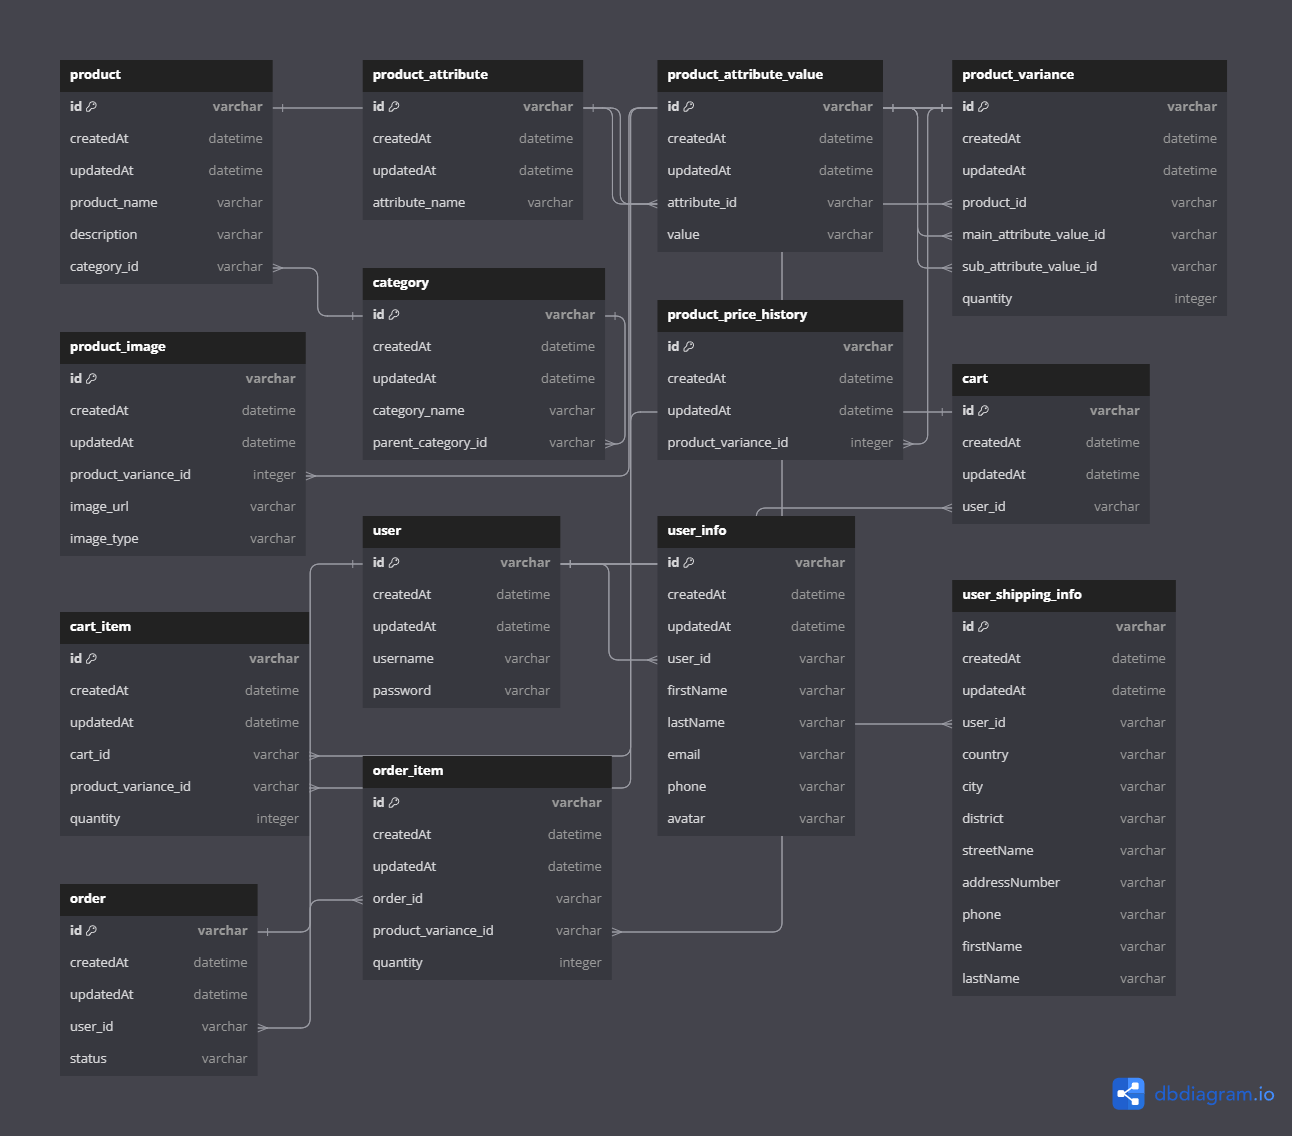
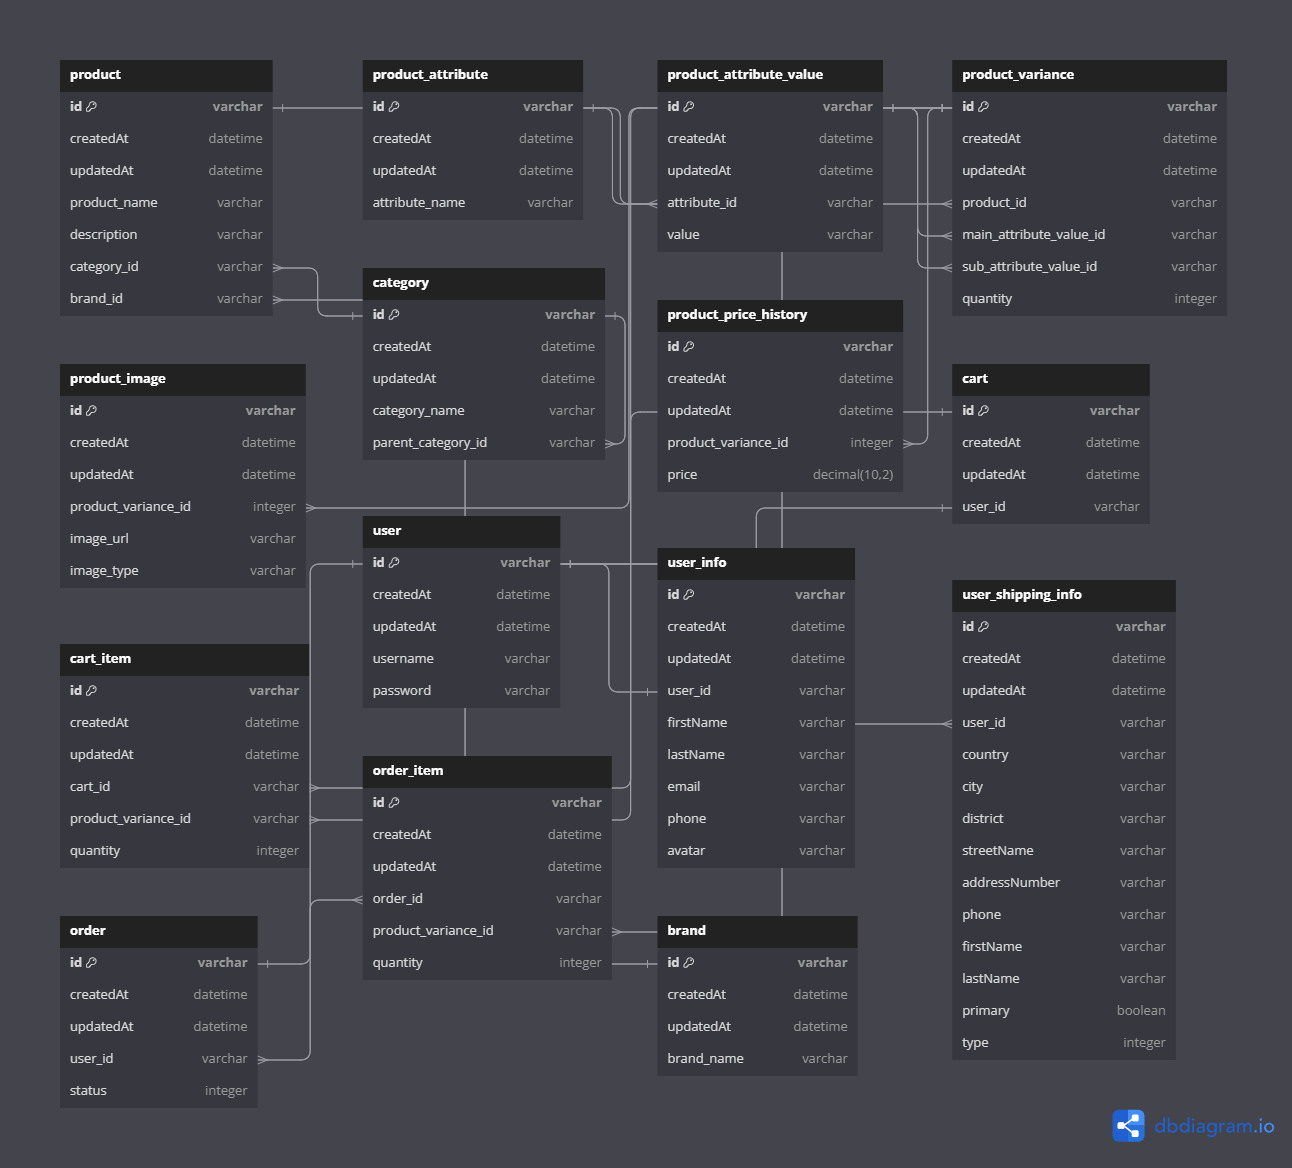
feat: design db

diff --git a/src/entities/product-variance.entity.ts b/src/entities/product-variance.entity.ts
@@ -1,7 +1,11 @@
-import { Column, Entity, JoinColumn, ManyToOne } from 'typeorm'
+import { Column, Entity, JoinColumn, ManyToOne, OneToMany } from 'typeorm'
 import CustomBase from './base'
 import ProductAttributeValue from './product-attribute-value.entity'
 import Product from './product.entity'
+import ProductImage from './product-image.entity'
+import ProductPriceHistory from './product-price-history.entity'
+import CartItem from './cart-item.entity'
+import OrderItem from './order-item.entity'
 
 @Entity()
 class ProductVariance extends CustomBase {
@@ -10,6 +14,9 @@ class ProductVariance extends CustomBase {
 
   @Column({ unique: true, type: 'varchar', nullable: false })
   attribute_name: string
+
+  @Column({ type: 'int2', nullable: false, default: 0 })
+  quantity: number
 
   @ManyToOne(() => Product, (product) => product.productVariances)
   @JoinColumn({ name: 'product_id' })
@@ -23,8 +30,17 @@ class ProductVariance extends CustomBase {
   @JoinColumn({ name: 'sub_attribute_value_id' })
   productAttributeValue2: ProductAttributeValue
 
-  @Column({ type: 'int2', default: 0 })
-  quantity: number
+  @OneToMany(() => ProductImage, (productImage) => productImage.productVariance)
+  productImages: ProductImage[]
+
+  @OneToMany(() => ProductPriceHistory, (productPriceHistory) => productPriceHistory.productVariance)
+  productPriceHistories: ProductImage[]
+
+  @OneToMany(() => CartItem, (cartItem) => cartItem.productVariance)
+  cartItems: CartItem[]
+
+  @OneToMany(() => OrderItem, (orderItem) => orderItem.productVariance)
+  orderItems: OrderItem[]
 }
 
 export default ProductVariance

diff --git a/src/app.module.ts b/src/app.module.ts
@@ -11,6 +11,15 @@ import ProductAttribute from './entities/product-attribute.entity'
 import ProductAttributeValue from './entities/product-attribute-value.entity'
 import Category from './entities/category.entity'
 import ProductVariance from './entities/product-variance.entity'
+import ProductImage from './entities/product-image.entity'
+import ProductPriceHistory from './entities/product-price-history.entity'
+import Cart from './entities/cart.entity'
+import CartItem from './entities/cart-item.entity'
+import UserShippingInfo from './entities/user-shipping-info.entity'
+import UserInfo from './entities/user-info.entity'
+import Order from './entities/order.entity'
+import OrderItem from './entities/order-item.entity'
+import Brand from './entities/brand.entity'
 @Module({
   imports: [
     ConfigModule.forRoot(),
@@ -21,7 +30,23 @@ import ProductVariance from './entities/product-variance.entity'
       username: process.env.DATABASE_USERNAME,
       password: process.env.DATABASE_PASSWORD,
       database: 'ecommerce',
-      entities: [User, Product, ProductAttribute, ProductAttributeValue, Category, ProductVariance],
+      entities: [
+        User,
+        UserInfo,
+        UserShippingInfo,
+        Order,
+        OrderItem,
+        Product,
+        ProductAttribute,
+        ProductAttributeValue,
+        Brand,
+        Category,
+        ProductVariance,
+        ProductImage,
+        ProductPriceHistory,
+        Cart,
+        CartItem,
+      ],
       synchronize: true,
     }),
     UserModule,

diff --git a/src/entities/user-shipping-info.entity.ts b/src/entities/user-shipping-info.entity.ts
@@ -1,0 +1,42 @@
+import { Column, Entity, JoinColumn, ManyToOne } from 'typeorm'
+import CustomBase from './base'
+import User from './user.entity'
+
+@Entity()
+class UserShippingInfo extends CustomBase {
+  @Column({ type: 'varchar', nullable: false })
+  country: string
+
+  @Column({ type: 'varchar', nullable: false })
+  city: string
+
+  @Column({ type: 'varchar', nullable: false })
+  district: string
+
+  @Column({ type: 'varchar', nullable: false })
+  streetName: string
+
+  @Column({ type: 'varchar', nullable: false })
+  addressNumber: string
+
+  @Column({ type: 'varchar', nullable: false })
+  phone: string
+
+  @Column({ type: 'varchar', nullable: false })
+  firstName: string
+
+  @Column({ type: 'varchar', nullable: false })
+  lastName: string
+
+  @Column({ type: 'boolean', nullable: false })
+  primary: string
+
+  @Column({ type: 'int2', nullable: false, default: 0 })
+  type: number
+
+  @ManyToOne(() => User, (user) => user.userShippingInfos)
+  @JoinColumn({ name: 'user_id' })
+  user: User
+}
+
+export default UserShippingInfo

diff --git a/src/entities/order-item.entity.ts b/src/entities/order-item.entity.ts
@@ -1,0 +1,20 @@
+import { Column, Entity, JoinColumn, ManyToOne } from 'typeorm'
+import CustomBase from './base'
+import Order from './order.entity'
+import ProductVariance from './product-variance.entity'
+
+@Entity()
+class OrderItem extends CustomBase {
+  @Column({ type: 'int2', nullable: false, default: 0 })
+  quantity: number
+
+  @ManyToOne(() => ProductVariance, (productVariance) => productVariance.orderItems)
+  @JoinColumn({ name: 'product_variance_id' })
+  productVariance: ProductVariance
+
+  @ManyToOne(() => Order, (order) => order.items)
+  @JoinColumn({ name: 'order_id' })
+  order: Order
+}
+
+export default OrderItem

diff --git a/src/entities/user.entity.ts b/src/entities/user.entity.ts
@@ -1,5 +1,7 @@
-import { Column, Entity } from 'typeorm'
+import { Column, Entity, OneToMany } from 'typeorm'
 import CustomBase from './base'
+import UserShippingInfo from './user-shipping-info.entity'
+import Order from './order.entity'
 
 @Entity()
 class User extends CustomBase {
@@ -8,6 +10,12 @@ class User extends CustomBase {
 
   @Column({ type: 'varchar', nullable: false })
   password: string
+
+  @OneToMany(() => UserShippingInfo, (userShippingInfo) => userShippingInfo.user)
+  userShippingInfos: UserShippingInfo[]
+
+  @OneToMany(() => Order, (order) => order.user)
+  orders: Order[]
 }
 
 export default User

diff --git a/src/entities/cart-item.entity.ts b/src/entities/cart-item.entity.ts
@@ -1,0 +1,20 @@
+import { Column, Entity, JoinColumn, ManyToOne } from 'typeorm'
+import CustomBase from './base'
+import Cart from './cart.entity'
+import ProductVariance from './product-variance.entity'
+
+@Entity()
+class CartItem extends CustomBase {
+  @ManyToOne(() => Cart, (cart) => cart.items)
+  @JoinColumn({ name: 'cart_id' })
+  cart: Cart
+
+  @ManyToOne(() => ProductVariance, (productVariance) => productVariance.cartItems)
+  @JoinColumn({ name: 'product_variance_id' })
+  productVariance: ProductVariance
+
+  @Column({ type: 'int2', default: 0 })
+  quantity: number
+}
+
+export default CartItem

diff --git a/src/entities/product.entity.ts b/src/entities/product.entity.ts
@@ -2,6 +2,7 @@ import { Column, Entity, JoinColumn, ManyToOne, OneToMany } from 'typeorm'
 import CustomBase from './base'
 import Category from './category.entity'
 import ProductVariance from './product-variance.entity'
+import Brand from './brand.entity'
 
 @Entity()
 class Product extends CustomBase {
@@ -17,6 +18,10 @@ class Product extends CustomBase {
 
   @OneToMany(() => ProductVariance, (productVariance) => productVariance)
   productVariances: ProductVariance[]
+
+  @ManyToOne(() => Brand, (brand) => brand.products)
+  @JoinColumn({ name: 'brand_id' })
+  brand: Brand
 }
 
 export default Product

diff --git a/src/entities/product-image.entity.ts b/src/entities/product-image.entity.ts
@@ -1,0 +1,18 @@
+import { Column, Entity, JoinColumn, ManyToOne } from 'typeorm'
+import CustomBase from './base'
+import ProductVariance from './product-variance.entity'
+
+@Entity()
+class ProductImage extends CustomBase {
+  @Column({ type: 'varchar', nullable: false })
+  image_url: string
+
+  @Column({ type: 'varchar', nullable: false })
+  image_type: string
+
+  @ManyToOne(() => ProductVariance, (productVariance) => productVariance.productImages)
+  @JoinColumn({ name: 'product_variance_id' })
+  productVariance: ProductVariance
+}
+
+export default ProductImage

diff --git a/src/entities/user-info.entity.ts b/src/entities/user-info.entity.ts
@@ -1,0 +1,24 @@
+import { Column, Entity, JoinColumn, ManyToOne, OneToOne } from 'typeorm'
+import CustomBase from './base'
+import User from './user.entity'
+
+@Entity()
+class UserInfo extends CustomBase {
+  @Column({ type: 'varchar' })
+  first_name: string
+
+  @Column({ type: 'varchar' })
+  last_name: string
+
+  @Column({ type: 'varchar', nullable: true })
+  email: string
+
+  @Column({ type: 'varchar', nullable: true })
+  phone: string
+
+  @OneToOne(() => User)
+  @JoinColumn({ name: 'user_id' })
+  user: User
+}
+
+export default UserInfo

diff --git a/src/entities/product-price-history.entity.ts b/src/entities/product-price-history.entity.ts
@@ -1,0 +1,15 @@
+import { Column, Entity, JoinColumn, ManyToOne } from 'typeorm'
+import CustomBase from './base'
+import ProductVariance from './product-variance.entity'
+
+@Entity()
+class ProductPriceHistory extends CustomBase {
+  @Column({ type: 'decimal', precision: 2, width: 10, nullable: false })
+  price: string
+
+  @ManyToOne(() => ProductVariance, (productVariance) => productVariance.productPriceHistories)
+  @JoinColumn({ name: 'product_variance_id' })
+  productVariance: ProductVariance
+}
+
+export default ProductPriceHistory

diff --git a/src/entities/order.entity.ts b/src/entities/order.entity.ts
@@ -1,0 +1,19 @@
+import { Column, Entity, JoinColumn, ManyToOne, OneToMany } from 'typeorm'
+import CustomBase from './base'
+import User from './user.entity'
+import OrderItem from './order-item.entity'
+
+@Entity()
+class Order extends CustomBase {
+  @Column({ type: 'int2', nullable: false, default: 0 })
+  status: number
+
+  @OneToMany(() => OrderItem, (orderItem) => orderItem.order)
+  items: OrderItem[]
+
+  @ManyToOne(() => User, (user) => user.orders)
+  @JoinColumn({ name: 'user_id' })
+  user: User
+}
+
+export default Order

diff --git a/src/entities/brand.entity.ts b/src/entities/brand.entity.ts
@@ -1,0 +1,16 @@
+import { Column, Entity, OneToMany } from 'typeorm'
+import CustomBase from './base'
+import Cart from './cart.entity'
+import UserShippingInfo from './user-shipping-info.entity'
+import Product from './product.entity'
+
+@Entity()
+class Brand extends CustomBase {
+  @Column({ unique: true, type: 'varchar', nullable: false })
+  brand_name: string
+
+  @OneToMany(() => Product, (product) => product.brand)
+  products: Product[]
+}
+
+export default Brand
